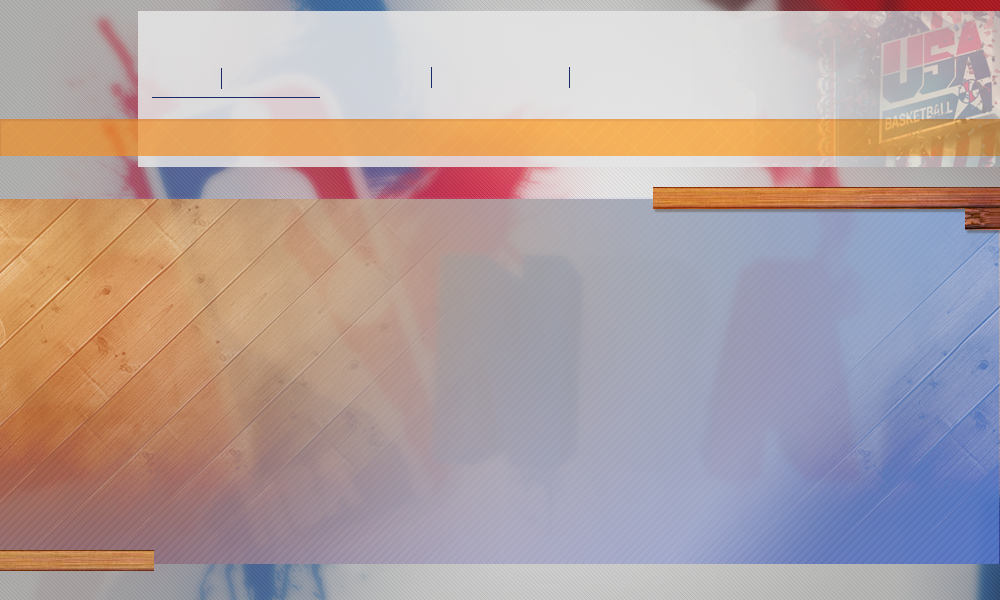
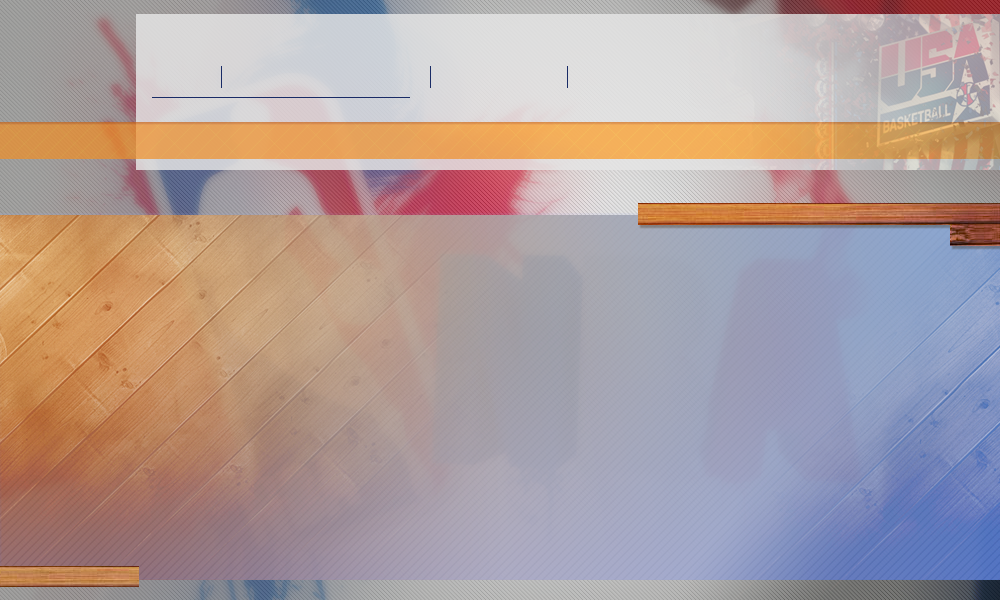
改了一波位置

diff --git a/Nbalabala/src/ui/panel/playerData/PlayerDataPanel.java b/Nbalabala/src/ui/panel/playerData/PlayerDataPanel.java
@@ -45,7 +45,7 @@ public class PlayerDataPanel extends BottomPanel {
 	private static final int POSITION_COUNT = 4, DIVISION_COUNT = 9, BASIS_COUNT = 15, 
 			TOTAL_AVG_COUNT = 2;
 	/** 分别代表第一行到第五行的纵坐标 */
-	private static final int Y1 = 27, Y2 = 66, Y3 = 107, Y4 = 138, Y5 = 171;
+	private static final int Y1 = 27, Y2 = 66, Y3 = 107, Y4 = 138, Y5 = 190;
 	/** 代表所有列的前三个button的横坐标 */
 	private static final int X1 = 227, X2 = 288, X3 = 349;
 	/** “所有”的横坐标 */
@@ -114,8 +114,8 @@ public class PlayerDataPanel extends BottomPanel {
 		addListener();
 		addFindButton();
 		seasonInput = new SeasonInputPanel();
-		seasonInput.setLocation(660, 171);
-		this.add(seasonInput); // TODO 位置需要重新设定
+		seasonInput.setLocation(660, Y5);
+		this.add(seasonInput); 
 		// 初始化界面的表格
 		ArrayList<PlayerSeasonVO> iniArray = playerSeason.getAllPlayersSortedByName();
 		createTable(iniArray);
@@ -127,7 +127,7 @@ public class PlayerDataPanel extends BottomPanel {
 	}
 
 	public void addFindButton() {
-		findButton = new ImgButton("images/playerData/search.png", 856, 124, "images/playerData/searchOn.png",
+		findButton = new ImgButton("images/playerData/search.png", 856, 130, "images/playerData/searchOn.png",
 				"images/playerData/searchClick.png");
 		this.add(findButton);
 		findButton.addMouseListener(new MouseAdapter() {
@@ -524,7 +524,7 @@ public class PlayerDataPanel extends BottomPanel {
 			this.remove(scroll);
 		}
 		scroll = new BottomScrollPane(table);
-		scroll.setLocation(57, 239); // 表格的位置
+		scroll.setLocation(57, 260); // 表格的位置
 		this.add(scroll);
 	}
 

diff --git a/Nbalabala/src/ui/panel/teamdata/TeamDataPanel.java b/Nbalabala/src/ui/panel/teamdata/TeamDataPanel.java
@@ -46,7 +46,7 @@ public class TeamDataPanel extends BottomPanel {
 	/** 宽 高 */
 	private static final int WIDTH_X = 60, HEIGHT = 24, WIDTH_THREE = 75;
 	/** 纵坐标及间隔 */
-	private static final int Y = 66, INTER = 61, Y5 = 171;
+	private static final int Y = 66, INTER = 61, Y5 = 190;
 	/** “所有”的横坐标 */
 	private static final int ALL_X = 156;
 	/** 东南 中央 大西洋 东部 西部 太平洋 西北 西南  等按钮的X坐标*/
@@ -101,7 +101,7 @@ public class TeamDataPanel extends BottomPanel {
 		addListener();
 		seasonInput = new SeasonInputPanel(this);
 		seasonInput.setLocation(660, Y5);
-		this.add(seasonInput); // TODO 位置需要重新设定
+		this.add(seasonInput); 
 		// 初始化表格和球队总数据
 		seasonArray = teamSeason.getTeamDataSortedByName(seasonInput.getSeason());
 		createTable(seasonArray); // 设置表格数据
@@ -393,7 +393,7 @@ public class TeamDataPanel extends BottomPanel {
 			this.remove(scroll);
 		}
 		scroll = new BottomScrollPane(table);
-		scroll.setLocation(57, 239); // 表格的位置
+		scroll.setLocation(57, 260); // 表格的位置
 		this.add(scroll);
 	}
 

diff --git a/Nbalabala/src/ui/panel/allplayers/PlayerInfoPanel.java b/Nbalabala/src/ui/panel/allplayers/PlayerInfoPanel.java
@@ -196,7 +196,7 @@ public class PlayerInfoPanel extends BottomPanel {
 	public void addActionImg() {
 		ActionPhotoPanel actionPhotoPanel = new ActionPhotoPanel(detailVO.getAction());
 		actionPhotoPanel.setOpaque(true);
-		actionPhotoPanel.setBounds(885, 6, 1000, 1000);
+		actionPhotoPanel.setBounds(880, 6, 1000, 1000);
 		this.add(actionPhotoPanel);
 	}
 
@@ -271,7 +271,7 @@ public class PlayerInfoPanel extends BottomPanel {
 		table = new BottomTable(rowData, COLUMN_NAMES);
 		table.getColumnModel().getColumn(2).setPreferredWidth(110);
 		scroll = new BottomScrollPane(table);
-		scroll.setBounds(57, 260, 888, 265); // 表格的位置
+		scroll.setBounds(57, 260, 888, 270); // 表格的位置
 		this.add(scroll);
 	}
 

diff --git a/Nbalabala/src/ui/panel/allteams/TeamGamePanel.java b/Nbalabala/src/ui/panel/allteams/TeamGamePanel.java
@@ -49,7 +49,7 @@ public class TeamGamePanel extends TeamSeasonPanel {
 		matchProfile = teamDetail.getMatchRecords();
 		gameData = new GameDataPanel("",1); 
 		pane = new MatchInfoTableFactory(matchProfile,this).getTableScrollPanel();
-		pane.setBounds(55, 285, 905, 250);
+		pane.setBounds(57, 285, 888, 245);
 		add(pane);
 		iniTable(x);
 	}
@@ -131,7 +131,7 @@ public class TeamGamePanel extends TeamSeasonPanel {
 					}
 				}
 				pane = new MatchInfoTableFactory(pro,TeamGamePanel.this).getTableScrollPanel();
-				pane.setBounds(55, 285, 905, 250);
+				pane.setBounds(57, 285, 888, 250);
 				add(pane);
 				TeamGamePanel.this.repaint();
 			}

diff --git a/Nbalabala/src/ui/panel/gamedata/GamePanel.java b/Nbalabala/src/ui/panel/gamedata/GamePanel.java
@@ -96,7 +96,7 @@ public class GamePanel extends BottomPanel {
 	 * @version 2015年3月23日 下午6:20:43
 	 */
 	public void addBack() {
-		back = new ImgButton(url + "back.png", 50, 50, url + "back.png", url + "back.png");
+		back = new ImgButton(url + "back.png", 50, 50, url + "backOn.png", url + "back.png");
 		this.add(back);
 		back.addMouseListener(new MouseAdapter() {
 			public void mousePressed(MouseEvent e) {

diff --git a/Nbalabala/src/ui/common/table/MatchInfoTableFactory.java b/Nbalabala/src/ui/common/table/MatchInfoTableFactory.java
@@ -94,7 +94,7 @@ public class MatchInfoTableFactory {
 	private void setLook() {
 		int scoresWidth = 70;
 		int addsWidth = 80;
-		table.setWidth(new int[]{120,scoresWidth, scoresWidth, scoresWidth, scoresWidth, addsWidth, addsWidth, addsWidth, scoresWidth, 89, 89});
+		table.setWidth(new int[]{111,scoresWidth, scoresWidth, scoresWidth, scoresWidth, addsWidth, addsWidth, addsWidth, scoresWidth, 85, 85});
 	}
 	
 }

diff --git a/Nbalabala/src/ui/panel/allteams/TeamSeasonPanel.java b/Nbalabala/src/ui/panel/allteams/TeamSeasonPanel.java
@@ -409,7 +409,7 @@ public class TeamSeasonPanel extends BottomPanel {
 		table.setRowHeight(40);
 		table.setWidth(new int[]{140, 44, 44, 44, 44, 151, 118, 77, 209});
 		scroll = new BottomScrollPane(table);
-		scroll.setBounds(57, 270, 888, 290);
+		scroll.setBounds(57, 260, 888, 270);
 		this.add(scroll);
 	}
 	
